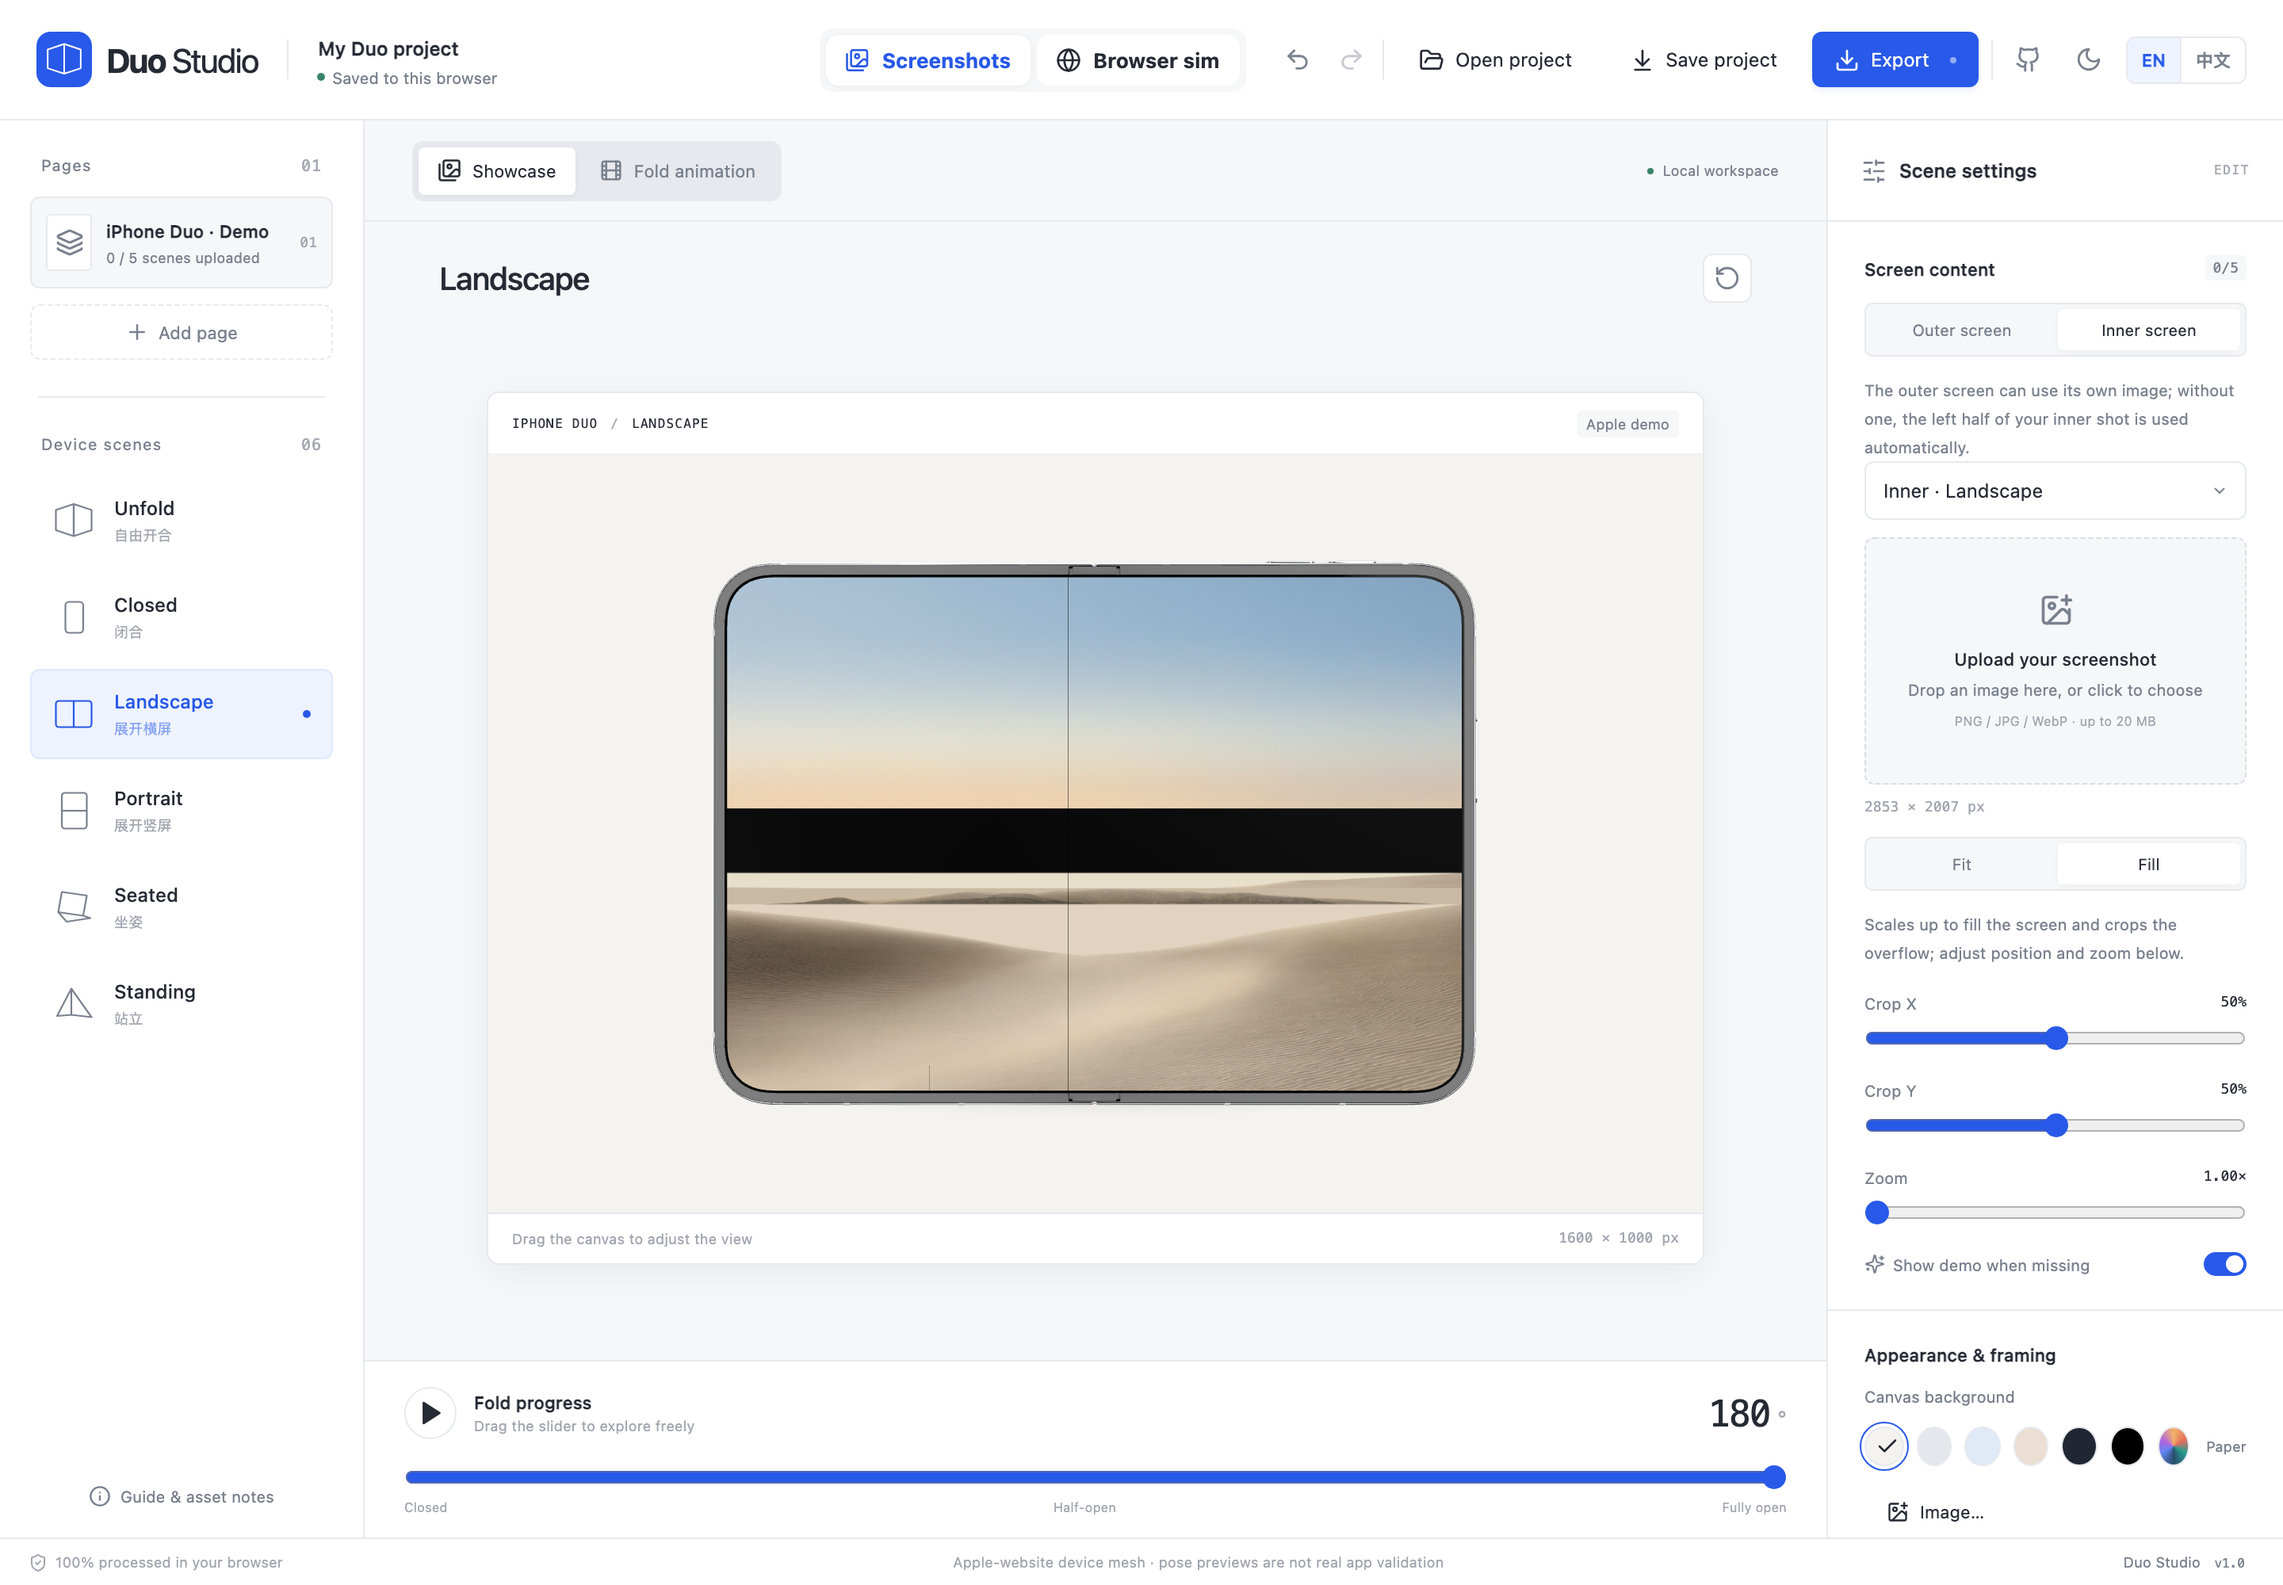
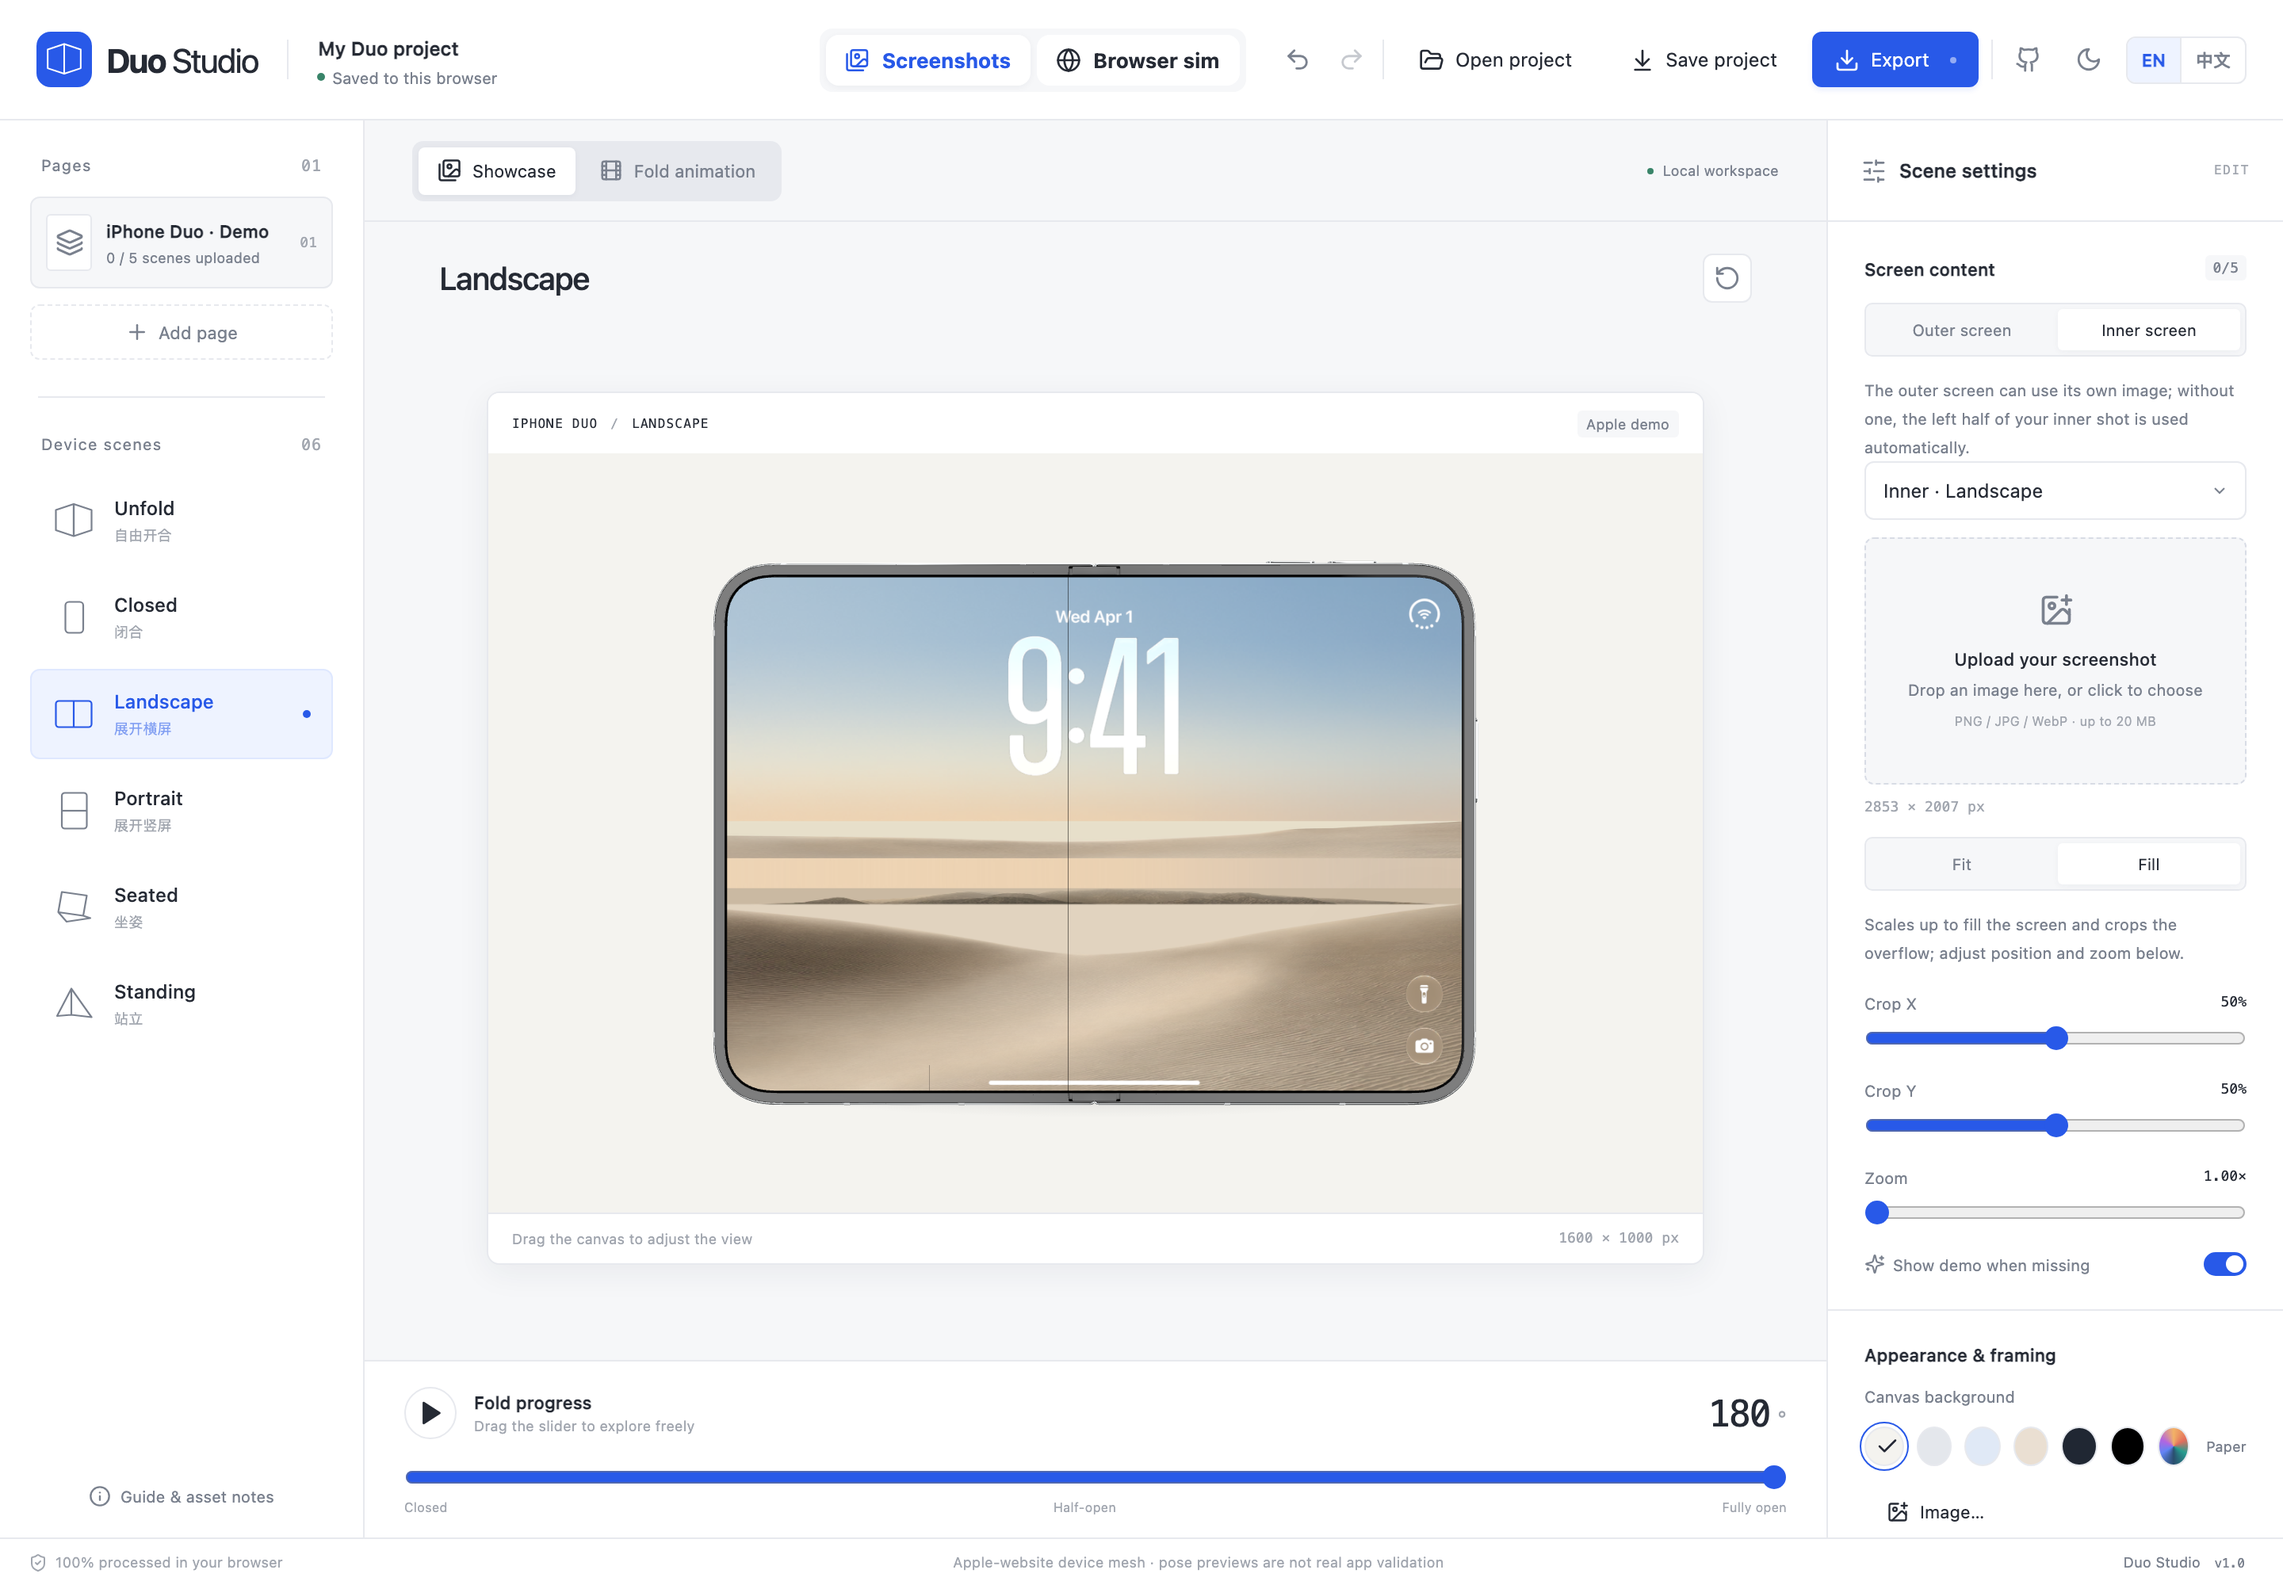
Fix demo composite: no black band, lock screen UI restored
Two flaws in the wallpaper composite, both reported from the live site:
the sky layer stopped at 38% height while the far dune started at ~52%,
exposing the black canvas base as a band across the middle; and the
flattened lock-screen images had been used without their alpha channel,
throwing away the 9:41 clock, date and buttons.

The wallpaper now fills the frame (the sky's darkest strip stretches
down as the base layer) and the lock-screen UI — which ships as
transparent overlay plates — is composited on top: the inner plate on
landscape screens, the outer plate on portrait ones. Verified with a
black-row scan (zero remaining) and visual checks; README shots
regenerated.

Changed region(s): [[0.3125, 0.372, 0.6562, 0.558]]

diff --git a/src/i18n/en.ts b/src/i18n/en.ts
@@ -145,7 +145,7 @@ export const en = {
   'hint.outputAnimation': 'Video max edge 1280 px · GIF max edge 640 px',
   'hint.outputImage': 'PNG exports at the selected size, keeping the UI ratio.',
   'demo.description':
-    'Placeholder screens use the official iPhone Duo wallpaper from the apple.com product gallery, so you can explore poses and exports before uploading anything.',
+    'Placeholder screens reproduce the official iPhone Duo lock screen — dune wallpaper, 9:41 clock and all — from the apple.com product gallery, so you can explore poses and exports before uploading anything.',
   'demo.note':
     'Demo images are for showcasing only — upload your own screens to generate real mockups and animations.',
   'demo.link': 'See iPhone Duo on apple.com ↗',
@@ -167,7 +167,7 @@ export const en = {
   'help.privacyNote':
     'Assets never leave your device. Autosave stays in this browser; download a project backup before clearing browser data.',
   'help.assetsNote':
-    'The device uses the mesh and fold animation published on the Apple website; materials and screen effects are rendered locally. Placeholder screens are Apple’s official iPhone Duo wallpaper. Until you upload assets, screens are clearly marked "Apple demo" — nothing is auto-adapted.',
+    'The device uses the mesh and fold animation published on the Apple website; materials and screen effects are rendered locally. Placeholder screens reproduce Apple’s official iPhone Duo lock screen. Until you upload assets, screens are clearly marked "Apple demo" — nothing is auto-adapted.',
   'help.storeNote':
     'App Store App Previews must be based on real app screen recordings; this tool’s device animation is for promotion. Screenshot specs referenced on 2026-09-10.',
   'help.appleSpecs': 'View Apple screenshot specs ↗',

diff --git a/src/i18n/zh.ts b/src/i18n/zh.ts
@@ -138,7 +138,7 @@ export const zh = {
   'hint.outputAnimation': '视频最长边 1280 px · GIF 最长边 640 px',
   'hint.outputImage': 'PNG 按所选尺寸导出，保持界面比例。',
   'demo.description':
-    '缺图时的占位画面使用 Apple 官网商品图册中的 iPhone Duo 官方壁纸，上传素材前即可体验各种形态与导出。',
+    '缺图时的占位画面复刻 Apple 官网商品图册中的 iPhone Duo 官方锁屏（沙丘壁纸与 9:41 时钟），上传素材前即可体验各种形态与导出。',
   'demo.note': '演示图仅用于展示工具能力，上传你的截图即可生成真实效果图与动画。',
   'demo.link': '查看 Apple 官网 iPhone Duo ↗',
   'footer.local': '100% 浏览器本地处理',
@@ -156,7 +156,7 @@ export const zh = {
     'PNG 用于展示，MP4/WebM/GIF 用于宣传。批量 ZIP 只包含实际上传的场景。保存项目文件可携带全部截图。',
   'help.privacyNote': '素材不会上传。自动保存仅在当前浏览器内；清理浏览器数据前，请下载项目备份。',
   'help.assetsNote':
-    '设备采用 Apple 官网公开的网格与开合动画，材质及屏幕效果在本地渲染；占位画面为 Apple 官网 iPhone Duo 官方壁纸。没有上传素材时会明确显示“Apple 示例”，不会生成自动适配结果。',
+    '设备采用 Apple 官网公开的网格与开合动画，材质及屏幕效果在本地渲染；占位画面复刻 Apple 官网 iPhone Duo 官方锁屏。没有上传素材时会明确显示“Apple 示例”，不会生成自动适配结果。',
   'help.storeNote':
     'App Store App Preview 需要以 App 自身录屏为基础；本工具的设备动画用于宣传。截图规范参考日期：2026-09-10。',
   'help.appleSpecs': '查看 Apple 截图规格 ↗',

diff --git a/scripts/prepare-apple-assets.py b/scripts/prepare-apple-assets.py
@@ -40,23 +40,27 @@ materials = scene['children'][0]['children'][0]['children'][0]['materials']
 (target / 'materials.json').write_text(json.dumps(materials, separators=(',', ':')))
 
 
-def decode_ktx(name):
+# Placeholder demo screens: the lock screen from the page's #product-gallery
+# viewer. The wallpaper is statically composited from its parallax layers
+# (sky / far dunes / hills / close dunes; the strips are opaque with soft
+# edges baked into RGB, so bottom-up overlapping reproduces the scene — the
+# sky's darkest strip stretches down as a base so no gap can show). The
+# lock-screen UI (9:41 clock, date, buttons, home bar) ships as transparent
+# overlays and is composited on top: the inner plate on landscape screens,
+# the outer plate on portrait ones.
+def decode_ktx_rgba(name):
     data = (source / name).read_bytes()
     fmt, _, width, height = struct.unpack_from('<4I', data, 12)
     assert fmt in (165, 166), f'Unexpected ASTC format: {fmt}'
     offset, size, _ = struct.unpack_from('<3Q', data, 80)
     rgba = texture2ddecoder.decode_astc(data[offset:offset + size], width, height, 6, 6)
-    return Image.frombytes('RGBA', (width, height), rgba, 'raw', 'BGRA').convert('RGB')
+    return Image.frombytes('RGBA', (width, height), rgba, 'raw', 'BGRA')
 
 
-# Placeholder demo screens: the wallpaper from the page's #product-gallery
-# viewer, statically composited from its parallax layers (sky / far dunes /
-# hills / close dunes). The layers are opaque strips whose soft edges are
-# baked into RGB, so simple bottom-up overlapping reproduces the scene.
 demo = pathlib.Path('public/demo/apple')
 demo.mkdir(parents=True, exist_ok=True)
 layers = {
-    part: decode_ktx(f'{name}_cropped-wallpaper_png.ktx')
+    part: decode_ktx_rgba(f'{name}_cropped-wallpaper_png.ktx')
     for part, name in [
         ('sky', 'sky_3k'),
         ('far', 'dune_far_3k'),
@@ -64,30 +68,47 @@ layers = {
         ('close', 'dune_close_3k'),
     ]
 }
+ui_inner = decode_ktx_rgba('lockscreen_ui_inner-wallpaper_png.ktx')
+ui_outer = decode_ktx_rgba('lockscreen_ui_outer-wallpaper_png.ktx')
 
 
 def compose_wallpaper(width, height):
     canvas = Image.new('RGB', (width, height))
-    dune_share = 0.62 if width < height else 0.55
-    sky = layers['sky'].resize((width, round(height * (1 - dune_share))), Image.LANCZOS)
-    canvas.paste(sky, (0, 0))
-    band = round(height * dune_share)
-    close = layers['close'].resize((width, round(band * 0.66)), Image.LANCZOS)
-    hills = layers['hills'].resize((width, round(band * 0.16)), Image.LANCZOS)
-    far = layers['far'].resize((width, round(band * 0.13)), Image.LANCZOS)
-    canvas.paste(far, (0, height - close.height - hills.height + round(band * 0.05)))
-    canvas.paste(hills, (0, height - close.height - round(hills.height * 0.35)))
-    canvas.paste(close, (0, height - close.height))
+    sky_h = round(height * 0.5)
+    canvas.paste(layers['sky'].resize((width, sky_h), Image.LANCZOS), (0, 0))
+    tail = layers['sky'].crop(
+        (0, layers['sky'].height - 10, layers['sky'].width, layers['sky'].height)
+    )
+    canvas.paste(tail.resize((width, height - sky_h), Image.LANCZOS), (0, sky_h))
+    band = round(height * (0.62 if width < height else 0.55))
+    close_h, hills_h, far_h = (round(band * 0.66), round(band * 0.16), round(band * 0.13))
+    canvas.paste(
+        layers['far'].resize((width, far_h), Image.LANCZOS), (0, sky_h - round(far_h * 0.35))
+    )
+    canvas.paste(
+        layers['hills'].resize((width, hills_h), Image.LANCZOS),
+        (0, height - close_h - round(hills_h * 0.35)),
+    )
+    canvas.paste(layers['close'].resize((width, close_h), Image.LANCZOS), (0, height - close_h))
     return canvas
 
 
-for name, width, height in [
-    ('inner', 2853, 2007),
-    ('inner-portrait', 2007, 2853),
-    ('outer', 1398, 2034),
-    ('outer-landscape', 2034, 1398),
+def overlay_lock_screen(canvas, ui):
+    scale = canvas.height / ui.height
+    plate = ui.resize((round(ui.width * scale), canvas.height), Image.LANCZOS)
+    canvas.paste(plate, ((canvas.width - plate.width) // 2, 0), plate)
+    return canvas
+
+
+for name, width, height, ui in [
+    ('inner', 2853, 2007, ui_inner),
+    ('inner-portrait', 2007, 2853, ui_outer),
+    ('outer', 1398, 2034, ui_outer),
+    ('outer-landscape', 2034, 1398, ui_inner),
 ]:
-    compose_wallpaper(width, height).save(demo / f'{name}.png', optimize=True)
+    overlay_lock_screen(compose_wallpaper(width, height), ui).save(
+        demo / f'{name}.png', optimize=True
+    )
 print(
     f'Prepared {len(model["meshes"])} meshes, {len(model["images"])} textures, '
     f'{len(model["animations"])} animations, 4 demo screens'

diff --git a/README.zh-CN.md b/README.zh-CN.md
@@ -41,7 +41,7 @@ npm run format:check
 4. 导出 PNG、MP4、WebM、GIF、真实上传场景 ZIP，或严格尺寸的纯界面 PNG。
 5. 保存 `.duo.json` 项目可携带全部素材。浏览器会自动保存到 IndexedDB，清除站点数据会移除本地自动保存。
 
-缺图时默认使用 Apple 官网 iPhone Duo 商品图册中的官方壁纸（合成自 https://www.apple.com/sg/iphone-duo 的视差图层），界面及导出文件名带示例标识。关闭示例后，缺图会阻断正式导出。批量 ZIP 包含真实上传场景及由内屏左半边生成的外屏，不包含示例。
+缺图时默认复刻 Apple 官网 iPhone Duo 商品图册中的官方锁屏（壁纸与 UI 合成自 https://www.apple.com/sg/iphone-duo 的视差图层），界面及导出文件名带示例标识。关闭示例后，缺图会阻断正式导出。批量 ZIP 包含真实上传场景及由内屏左半边生成的外屏，不包含示例。
 
 演示图仅用于展示工具能力，用户上传后优先展示自己的图片。切换静态场景后调整折叠进度会保留该姿态。旧版上架套图项目导入后自动切换为展示图，并保留素材及历史设置。
 

diff --git a/README.md b/README.md
@@ -68,7 +68,7 @@ More details in [docs/PRD.md](docs/PRD.md), [docs/IMPLEMENTATION_PLAN.md](docs/I
 - [DuoLikeAnimation](https://github.com/elijah-semyonov/DuoLikeAnimation) — inspiration for the open/close animation approach.
 - Codex Astra — this project was built with the help of the Codex Astra coding agent.
 
-Default placeholder screens reproduce the wallpaper from Apple's iPhone Duo product gallery ([apple.com/sg/iphone-duo](https://www.apple.com/sg/iphone-duo)), used only to demonstrate the tool.
+Default placeholder screens reproduce the lock screen from Apple's iPhone Duo product gallery ([apple.com/sg/iphone-duo](https://www.apple.com/sg/iphone-duo)), used only to demonstrate the tool.
 
 ## License
 
